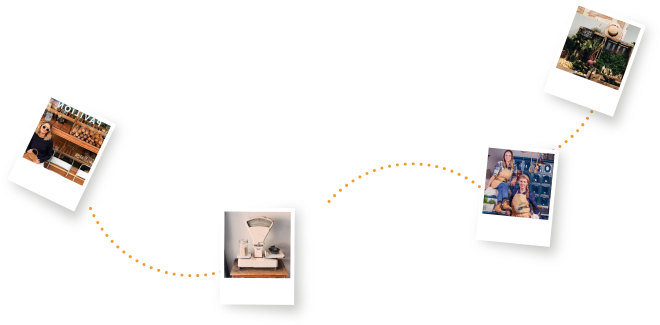
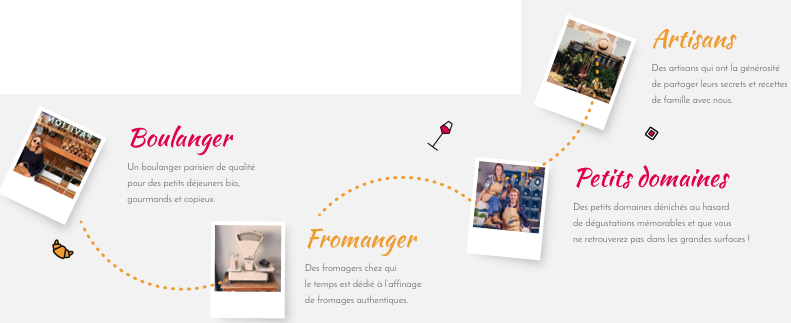
better front

diff --git a/app/assets/stylesheets/components/_title.scss b/app/assets/stylesheets/components/_title.scss
@@ -1,9 +1,5 @@
-.color_black {
-  color: #111111;
-}
-
 .title {
-  margin-top: 40px;
+  margin-top: 70px;
   font-size: 40px;
   color: #F14D4D;
   margin-bottom: 20px;
@@ -22,7 +18,7 @@
 
 
 .title-top {
-  margin-top: 90px;
+  margin-top: 100px;
   font-size: 40px;
   color: #F14D4D;
   margin-bottom: 20px;

diff --git a/app/assets/stylesheets/pages/_equipe.scss b/app/assets/stylesheets/pages/_equipe.scss
@@ -52,9 +52,20 @@
   }
 }
 
+.image-chaine {
+  margin: auto;
+  display: flex;
+  justify-content: space-around;
+  img {
+  display: block;
+  width: 80%;
+  height: 80%;
+  }
+}
+
 
 @media screen and (max-width: 723px) {
-  .partners img {
+  .image-chaine img {
   display: none;
   }
 }

diff --git a/app/controllers/articles_controller.rb b/app/controllers/articles_controller.rb
@@ -1,4 +1,5 @@
 class ArticlesController < ApplicationController
+  skip_before_action :authenticate_user!
 
   def index
     @articles = Article.all.order('created_at DESC') # creates an anonymous scope
